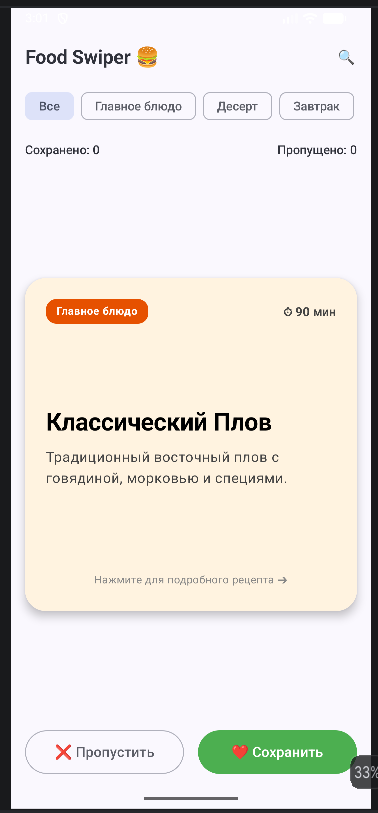
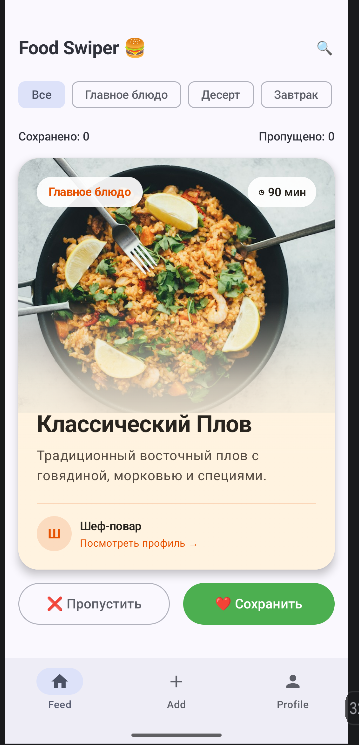
screenshots

diff --git a/README.md b/README.md
@@ -1,46 +1,74 @@
-# Foodgramm 🍔
+# Foodgram 🍔
 
-An interactive Android application for discovering, filtering, and saving recipes. Built with **Kotlin**, **Jetpack Compose**, and **Material 3**, utilizing the **MVVM** architecture pattern.
+**Foodgram** is an interactive Android application for discovering, browsing, and saving recipes. Users can explore recipes through an interactive card deck, search by title, filter by category, view detailed cooking instructions, and add their own recipes.
+
+Built with **Kotlin**, **Jetpack Compose**, and **Material 3**, following the **MVVM** architecture pattern.
 
 ---
 
 ## 🚀 Features
 
-* **Interactive Recipe Deck**: Browse recipes card-by-card with simple action buttons to **Save** ❤ or **Skip** ❌.
-* **Smart Search**: Search for any recipe globally by its title.
-* **Category Filtering**: Filter recipes using Material 3 `FilterChips` (*Main Course, Dessert, Breakfast, Snack, Drinks*).
-* **Dual View Modes**: Switch automatically between a single card deck view and a vertical `LazyColumn` list when searching or filtering.
-* **Detailed Recipe Bottom Sheet**: Tap any recipe card to view full ingredients and step-by-step cooking instructions via `ModalBottomSheet`.
-* **State Management**: Robust state preservation across configuration changes (e.g., screen rotation) using `ViewModel` and `StateFlow`.
+- **Interactive Recipe Deck** — Browse recipes one card at a time and save or skip recipes.
+- **Recipe Search** — Find recipes by title.
+- **Category Filtering** — Filter recipes by category using Material 3 `FilterChip` components.
+- **Multiple Viewing Modes** — Browse recipes in an interactive deck or a vertical list when searching or filtering.
+- **Recipe Details** — View recipe descriptions, ingredients, cooking time, and step-by-step instructions in a `ModalBottomSheet`.
+- **Saved Recipes** — View and manage saved recipes in the profile section.
+- **Add Your Own Recipes** — Create recipes with a title, category, cooking time, description, ingredients, instructions, and an image.
+- **User Profiles** — View your own recipes and explore recipes associated with other authors.
+- **Swipe Interactions** — Use swipe gestures to manage recipes in the profile.
+- **Reactive UI** — Update the interface in response to state changes using `ViewModel` and `StateFlow`.
 
----
+## 🛠 Tech Stack
 
-## 🛠 Tech Stack & Architecture
+- **Language:** Kotlin
+- **UI Framework:** Jetpack Compose
+- **Design System:** Material 3
+- **Architecture:** MVVM (Model–View–ViewModel)
+- **State Management:** `StateFlow`, `remember`, `rememberSaveable`
+- **Asynchronous Programming:** Kotlin Coroutines
+- **Image Loading:** Coil 3
+- **Navigation:** Navigation Compose
+- **Build System:** Gradle
 
-* **Language**: Kotlin
-* **UI Framework**: Jetpack Compose, Material 3
-* **Architecture**: MVVM (Model-View-ViewModel)
-* **State Management**: `StateFlow`, `remember`, `rememberSaveable`
-* **Asynchronous Programming**: Kotlin Coroutines
-* **Build System**: Gradle
+## 🏗 Project Structure
 
----
+The application is organized into several main parts:
+
+- **Model** — Recipe data models.
+- **ViewModel** — Application state and recipe-related operations.
+- **Screens** — Main feed, recipe creation, profiles, and recipe browsing.
+- **Components** — Reusable UI elements, including recipe cards and recipe detail sheets.
+- **Navigation** — Navigation between application screens.
+- **UI Theme** — Application colors, typography, and Material 3 styling.
 
 ## 📱 Screenshots
 
-| Main Screen (Deck) | Search & Filter List | Recipe Details |
-| :---: | :---: | :---: |
-| ![Main Screen](screenshots/main_screen.png) | ![Search Screen](screenshots/search_screen.png) | ![Detail Screen](screenshots/detail_screen.png) |
+|                 Main Feed                 |                   Search & Categories                   |                  Recipe Details                  |
+|:-----------------------------------------:|:-------------------------------------------------------:|:------------------------------------------------:|
+| ![Main Feed](screenshots/main_screen.png) | ![Search and Categories](screenshots/search_screen.png) | ![Recipe Details](screenshots/detail_screen.png) |
 
-*(Note: Store screenshot images inside the `screenshots/` directory in the repository root).*
-
----
+|                Add Recipe                 |               User Profile               |                  Saved Recipes                  |
+|:-----------------------------------------:|:----------------------------------------:|:-----------------------------------------------:|
+| ![Add Recipe](screenshots/add_recipe.png) | ![User Profile](screenshots/profile.png) | ![Saved Recipes](screenshots/saved_recipes.png) |
 
 ## ⚙ How to Run
 
-1. **Clone the repository**:
+1. Clone the repository:
+
    ```bash
-   git clone [https://github.com/akineverused/android_hw2.git](https://github.com/akineverused/android_hw2.git)
+   git clone https://github.com/akineverused/android_hw2.git
    ```
-2. **Run the app on an emulator**
-   
+
+2. Open the project in **Android Studio**.
+
+3. Allow Gradle to sync and download the required dependencies.
+
+4. Start an Android emulator or connect an Android device.
+
+5. Click **Run** in Android Studio to build and launch the application.
+
+## 📌 Notes
+
+- The application uses sample recipes for demonstration.
+- Recipe and profile data are managed through the application's current state-management implementation.
